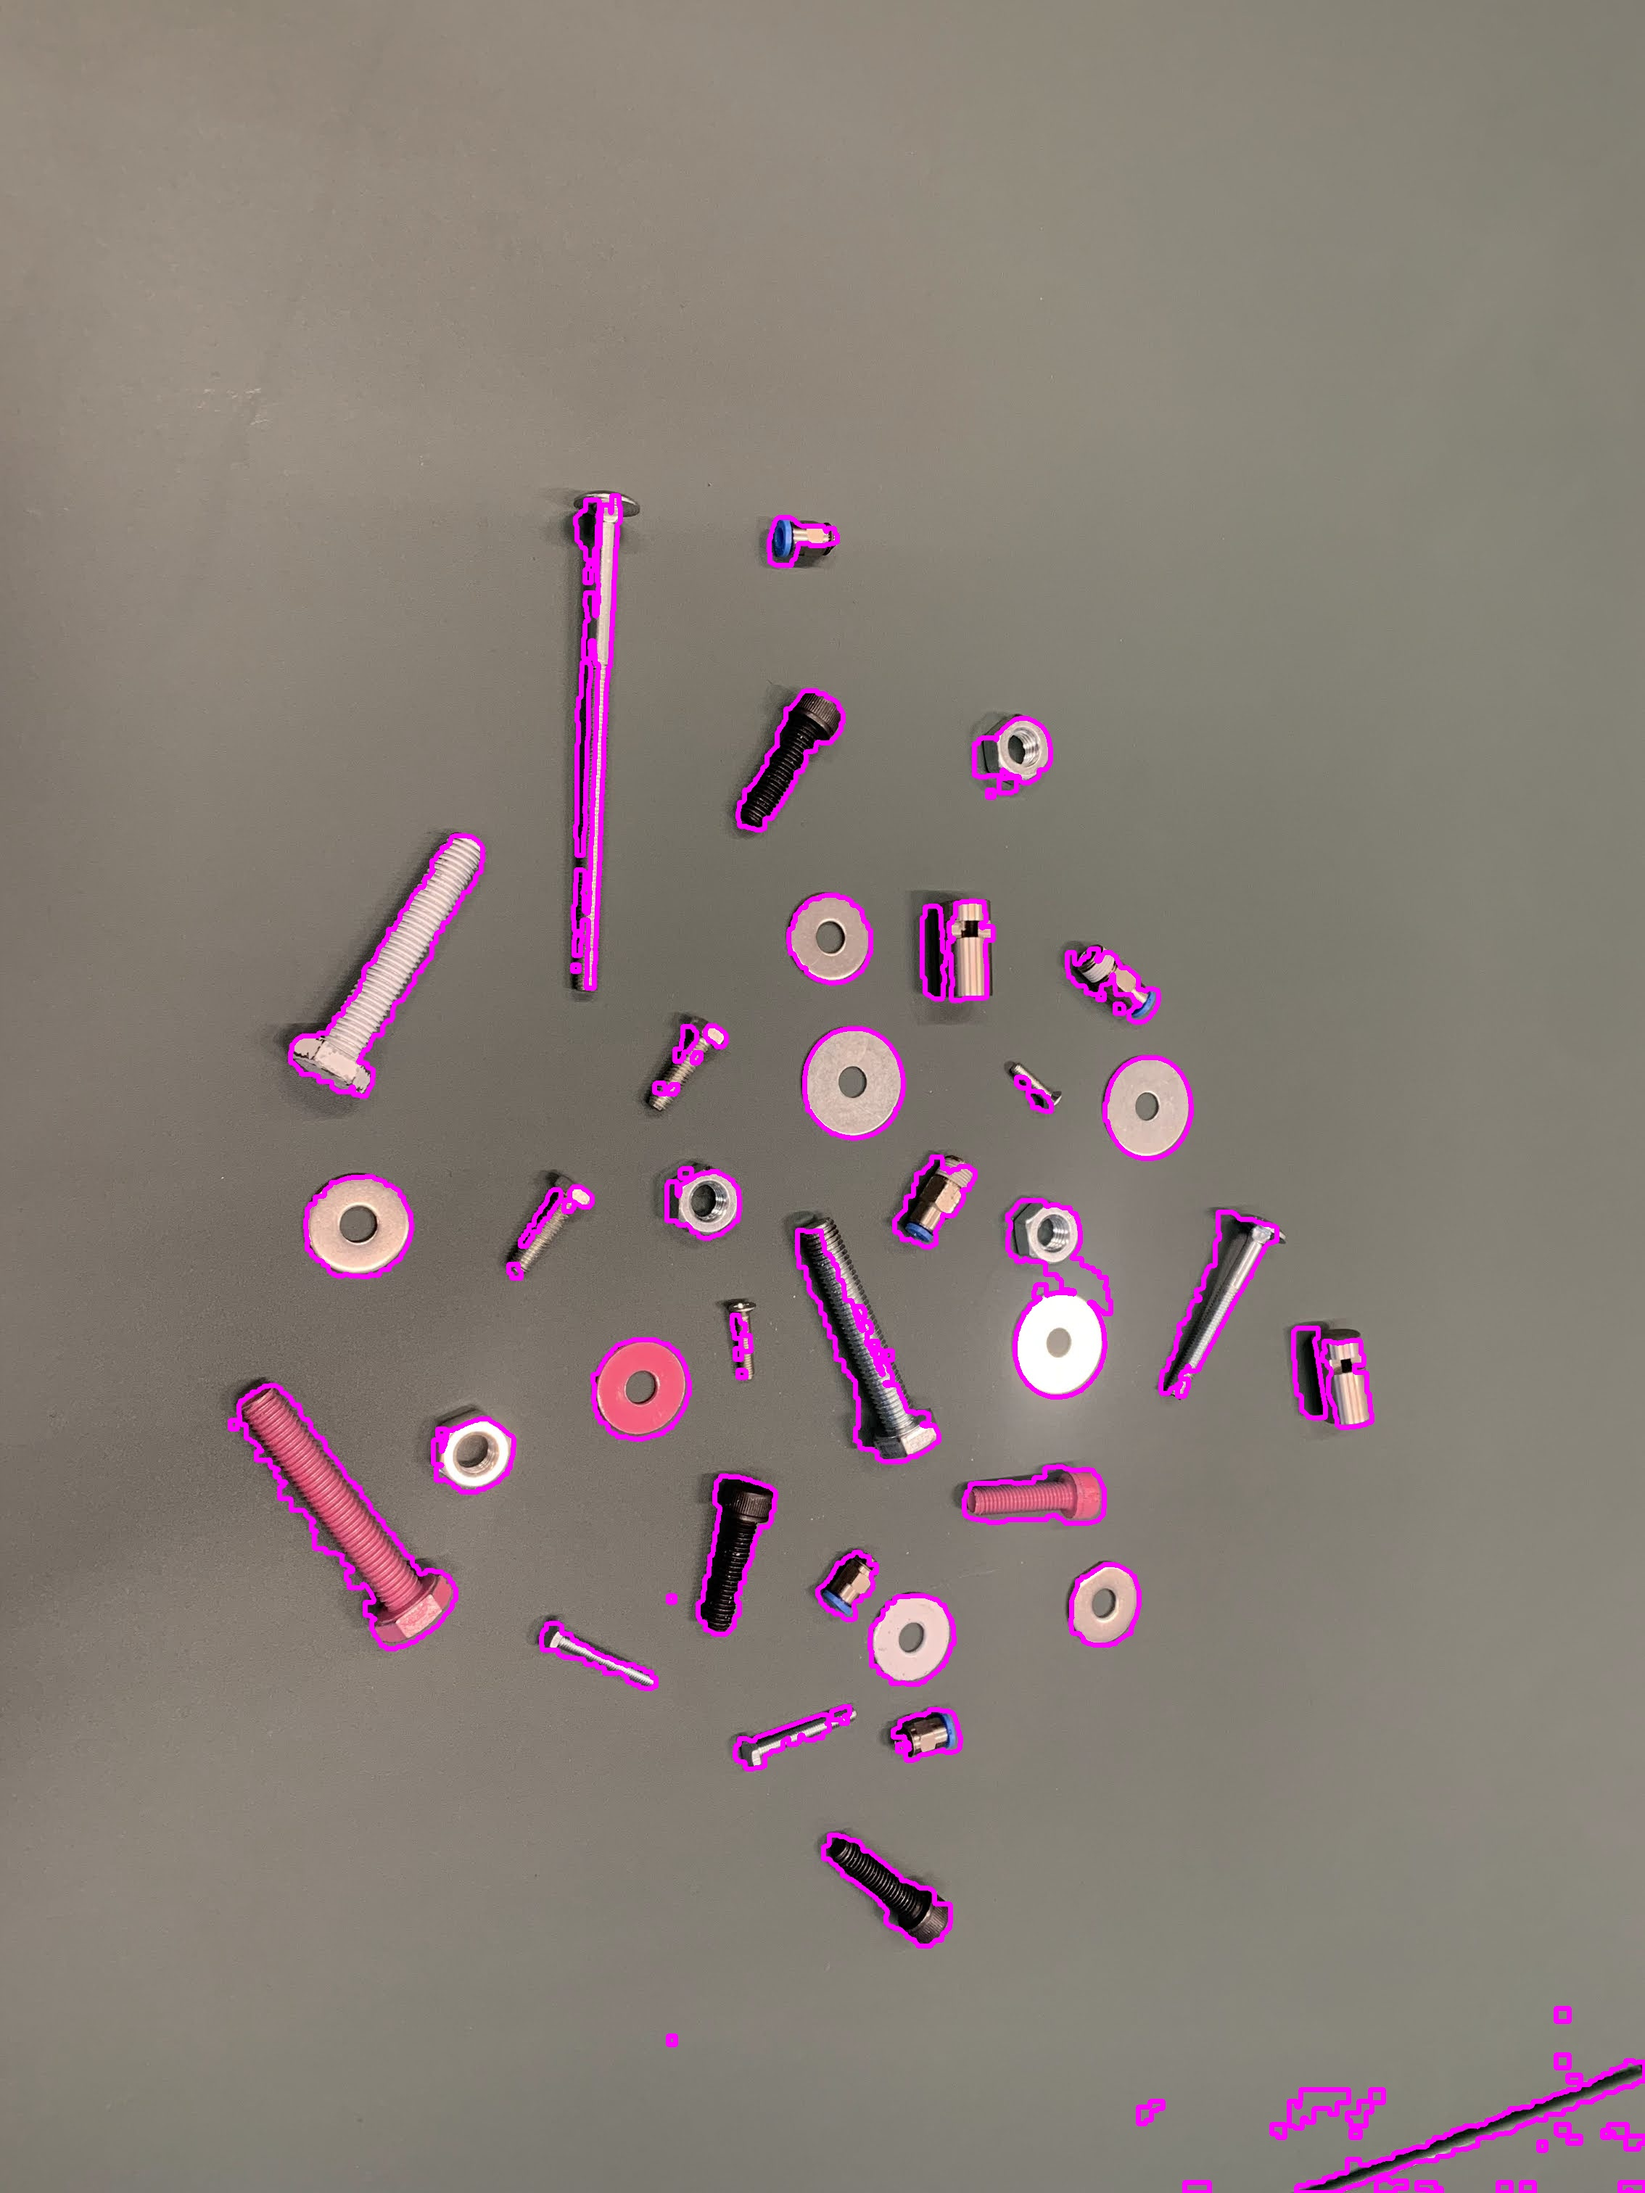
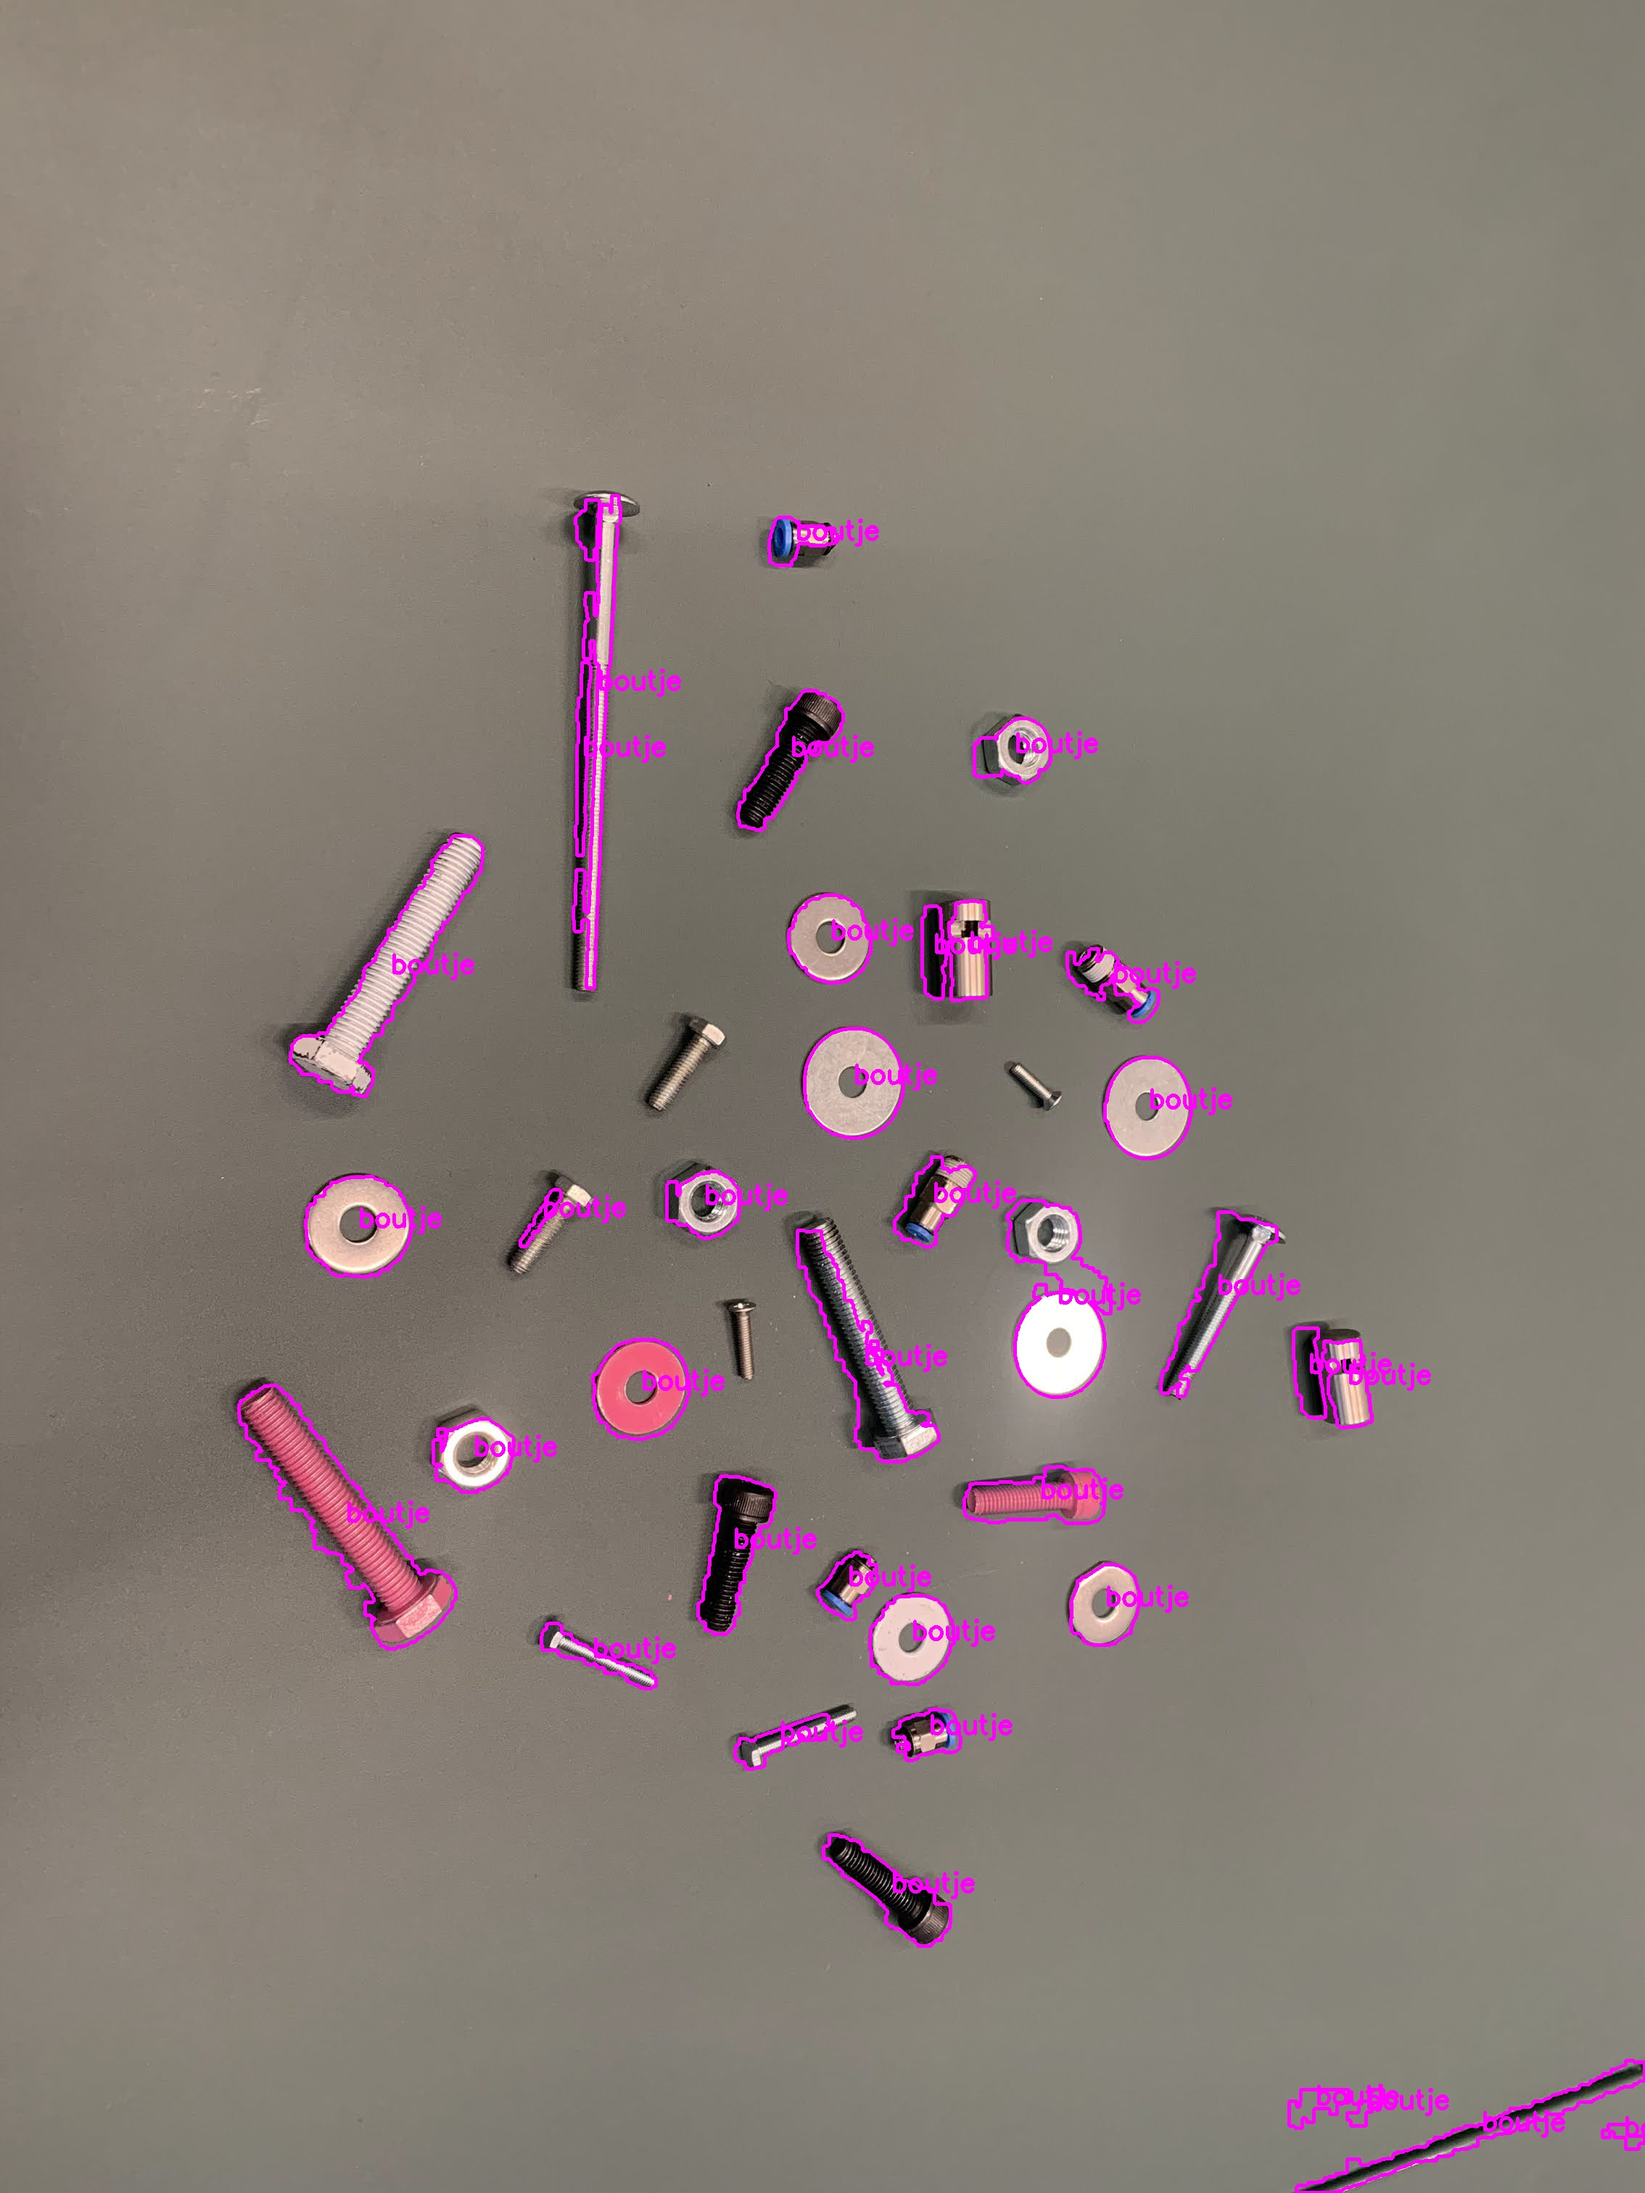
made another object class. It stores object data

diff --git a/Conventional.py b/Conventional.py
@@ -9,23 +9,28 @@ import glob
 class image():
     
     def __init__(self, cv_image, name):
-        self.contours = []
-        self.cv_image = cv_image
-        self.name = name
-    
-    def set_color(self, color):
-        self.color = color
+        self.contours   = []
+        self.cv_image   = cv_image
+        self.name       = name
     
     def add_contour(self, contour):
         self.contours.append(contour)
-            
+
+# TODO: Deze nog toepassen in code
+class object():
+    def __init__(self):
+        self.kind_of_object = None
+        self.color          = None
+        self.position       = None
+        self.oriëntation    = None
+    
 # -=-=-=- VARIABLES -=-=-=- #
 
 # Folder variables
 images      = []
 root_dir    = os.path.abspath("./")
 input_dir   = os.path.join(root_dir,'input_conventional','*.jpg')
-output_dir  = None # Wordt later gedefinieerd 
+output_dir  = None # later defined 
 
 #                      Hue, Saturation, Value
 lower_color = np.array([10,     20,      35])
@@ -38,15 +43,15 @@ kernel = np.ones((4, 4), np.uint8)
 # -=-=-=- READ IMAGES  -=-=-=- #
 
 for img in glob.glob(input_dir):
-    cv_img = cv.imread(img)
-    img = image(cv_img, os.path.basename(img))
+    cv_img  = cv.imread(img)
+    img     = image(cv_img, os.path.basename(img))
     images.append(img)
 
 # -=-=-=- MASK IMAGES -=-=-=- #
 
 for img in images:
-
-    # set afbeelding in hue color space
+    
+    # set image in hue color space
     hsv_image = cv.cvtColor(img.cv_image, cv.COLOR_BGR2HSV)
     
     # erode / dilate images for better quality masks
@@ -77,13 +82,16 @@ for img in images:
     # om een specifieke contour te maken, gebruik cnt = contours[1], en cnt als var
     img_with_contour = cv.drawContours(img.cv_image, img.contours, -1, (255,0,255), 3)
     
-    # Compute the moment of contour:
-    M = cv.moments(img.contours[-1])
-    
-    # The center or centroid can be calculated as follows:
-    cX = int(M['m10'] / M['m00'])
-    cY = int(M['m01'] / M['m00'])
-    img_with_text = cv.putText(img_with_contour, "boutje", (cX, cY), cv.FONT_HERSHEY_SIMPLEX, 1.2, (255, 0, 255), 3)
+    for contour in range(len(img.contours)):
+        M = cv.moments(img.contours[contour])
+
+        cX = int(M['m10'] / M['m00'])
+        cY = int(M['m01'] / M['m00'])
+        
+        # TODO: Change to which object we need to indentify
+        text = "object"
+        
+        img_with_text = cv.putText(img_with_contour, text, (cX, cY), cv.FONT_HERSHEY_SIMPLEX, 1.2, (255, 0, 255), 3)
     
     # -=-=- save image -=-=- #
     output_dir  = os.path.join(root_dir,'output_conventional', img.name)
